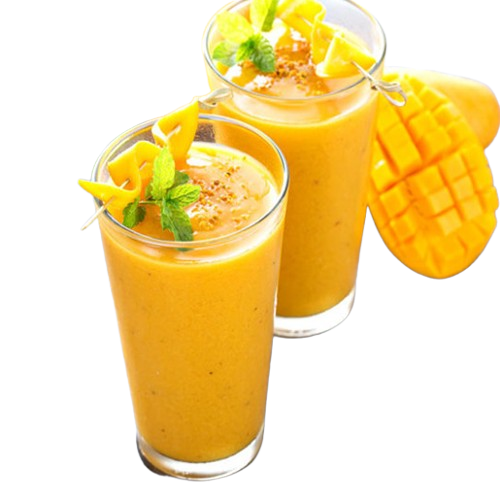
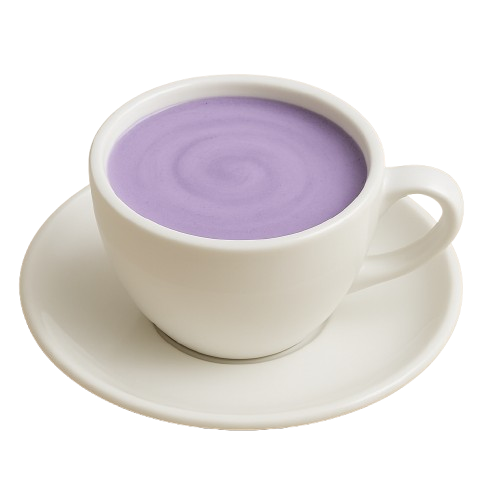
refactor : shopping card section compelete

diff --git a/src/components/organisms/SoppingCardSection/ShoppingCardSection.tsx b/src/components/organisms/SoppingCardSection/ShoppingCardSection.tsx
@@ -1,28 +1,46 @@
+import { Product } from "../../../features/products/productSlice";
 import { useSelector } from "react-redux";
 import { RootState } from "../../../app/store";
+import { Link } from "react-router-dom";
 
-import ShoppingCardItem from "../ShoppingCardItem/ShoppingCardItem";
+import ProductCard from "../../molecules/ProductCard/ProductCard";
 import Title from "../../atoms/Title/Title";
-//import Button from "../../atoms/Button/Button";
+import Button from "../../atoms/Button/Button";
 import Section from "../../atoms/Section/Section";
-
-import { Product } from "../../../features/products/productSlice";
+import Text from "../../atoms/Text/Text";
 
 const ShoppingCardSection = () => {
   const selectedProducts = useSelector(
     (state: RootState) => state.products.selectedProducts
   );
 
-  console.log(selectedProducts);
+  const uniqueProducts = selectedProducts.filter(
+    (product, index, self) =>
+      index === self.findIndex((p) => p.id === product.id)
+  );
+  const total = selectedProducts.reduce(
+    (initial, product) => initial + Number(product.price),
+    0
+  );
 
   return (
     <Section>
-      <div>
-        <Title size="medium">SOPPING CARD</Title>
-        <div className="flex gap-10  flex-wrap justify-center py-16">
-          {selectedProducts.map((p: Product) => (
-            <ShoppingCardItem product={p} key={p.id} />
-          ))}
+      <div className="flex flex-col items-center pt-10 pb-24 gap-16">
+        <Title>SOPPING CARD</Title>
+        <div className="flex gap-28  flex-wrap justify-center">
+          {uniqueProducts.map((p: Product) => {
+            return <ProductCard key={p.id} product={p} />;
+          })}
+        </div>
+        <Text>
+          Your purchase total : {total}
+          <span className="text-white ml-3"> Toman</span>
+        </Text>
+        <div className="flex gap-10">
+          <Button variant="large-secondary">
+            <Link to={"/home"}>Home</Link>
+          </Button>
+          <Button>Payment</Button>
         </div>
       </div>
     </Section>

diff --git a/src/components/molecules/ProductCard/ProductCard.tsx b/src/components/molecules/ProductCard/ProductCard.tsx
@@ -46,7 +46,13 @@ const ProductCard: React.FC<ProductsCardProps> = ({ product }) => {
       <div className="flex flex-row justify-between">
         <div className="flex flex-col pt-3 gap-2">
           <Text variant="small">{product.name}</Text>
-          <Text variant="small">{product.price}</Text>
+          <div className="flex gap-3">
+            <Text variant="small">
+              {product.price}
+              <span className="text-white ml-2 text-sm">Toman</span>
+            </Text>
+            {/* <Text variant="small">{Number(product.price) * count} Tom</Text> */}
+          </div>
         </div>
 
         <span className="p-4 border-l-2 mt-3 border-mocha h-20">

diff --git a/src/index.css b/src/index.css
@@ -7,7 +7,7 @@
     @apply overflow-x-hidden w-full;
   }
 }
-
+/* 
 body{
   background:#f6cc95;
-}
+} */
